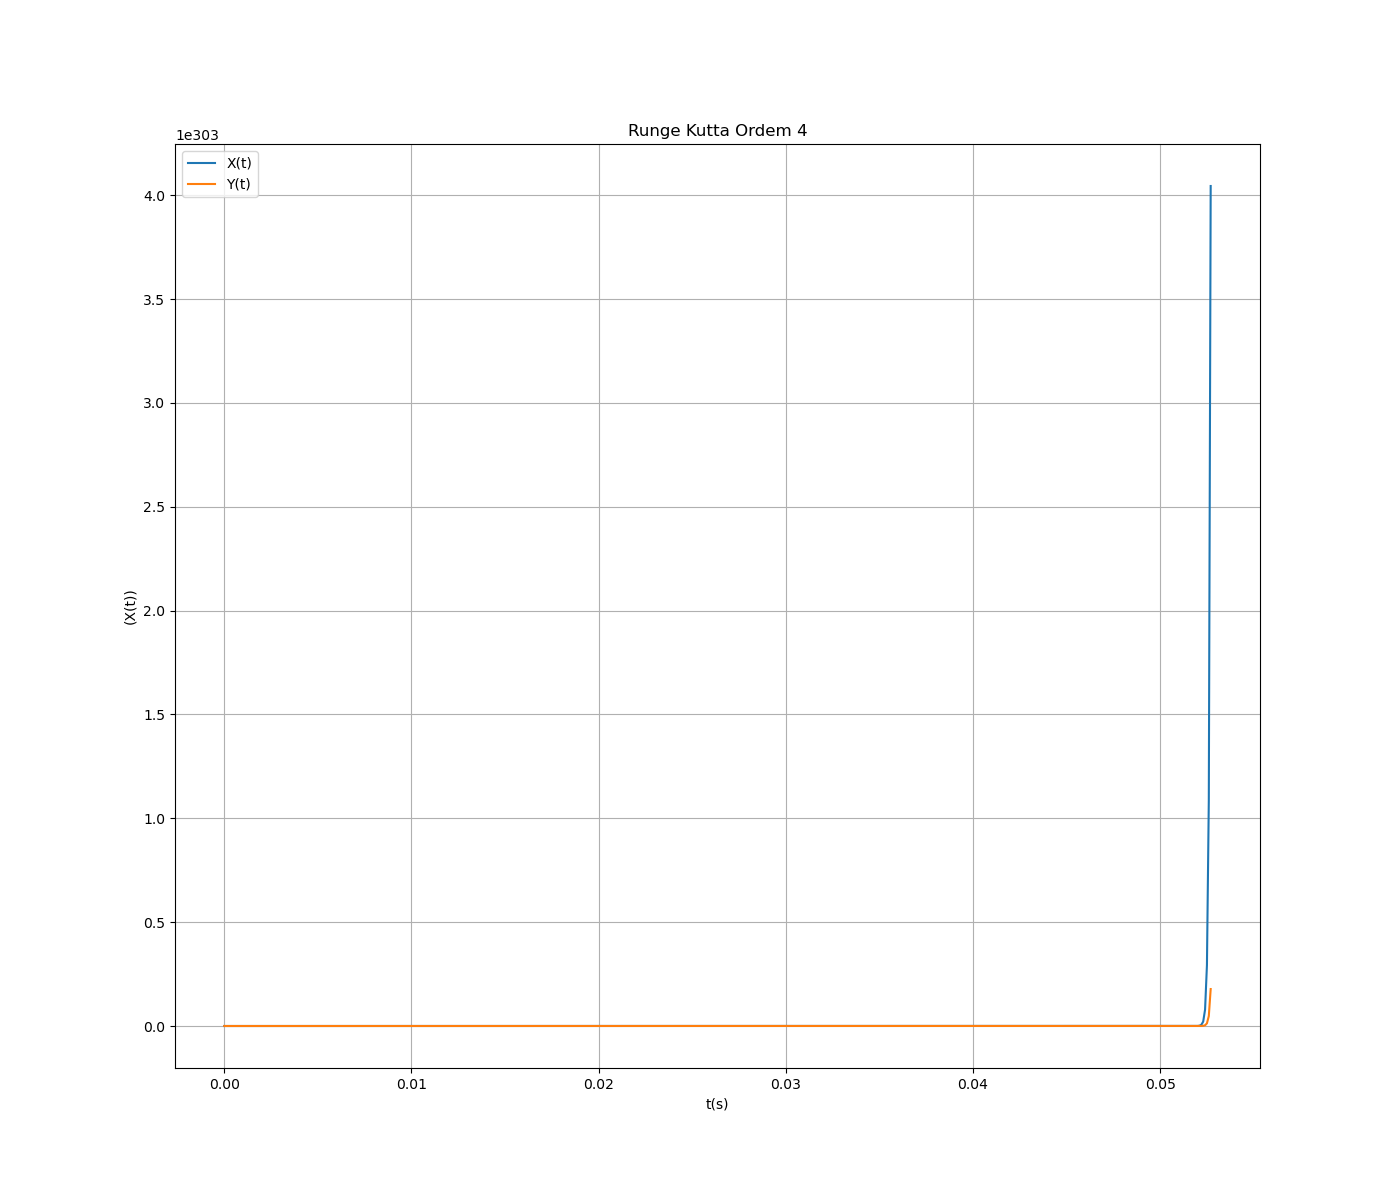
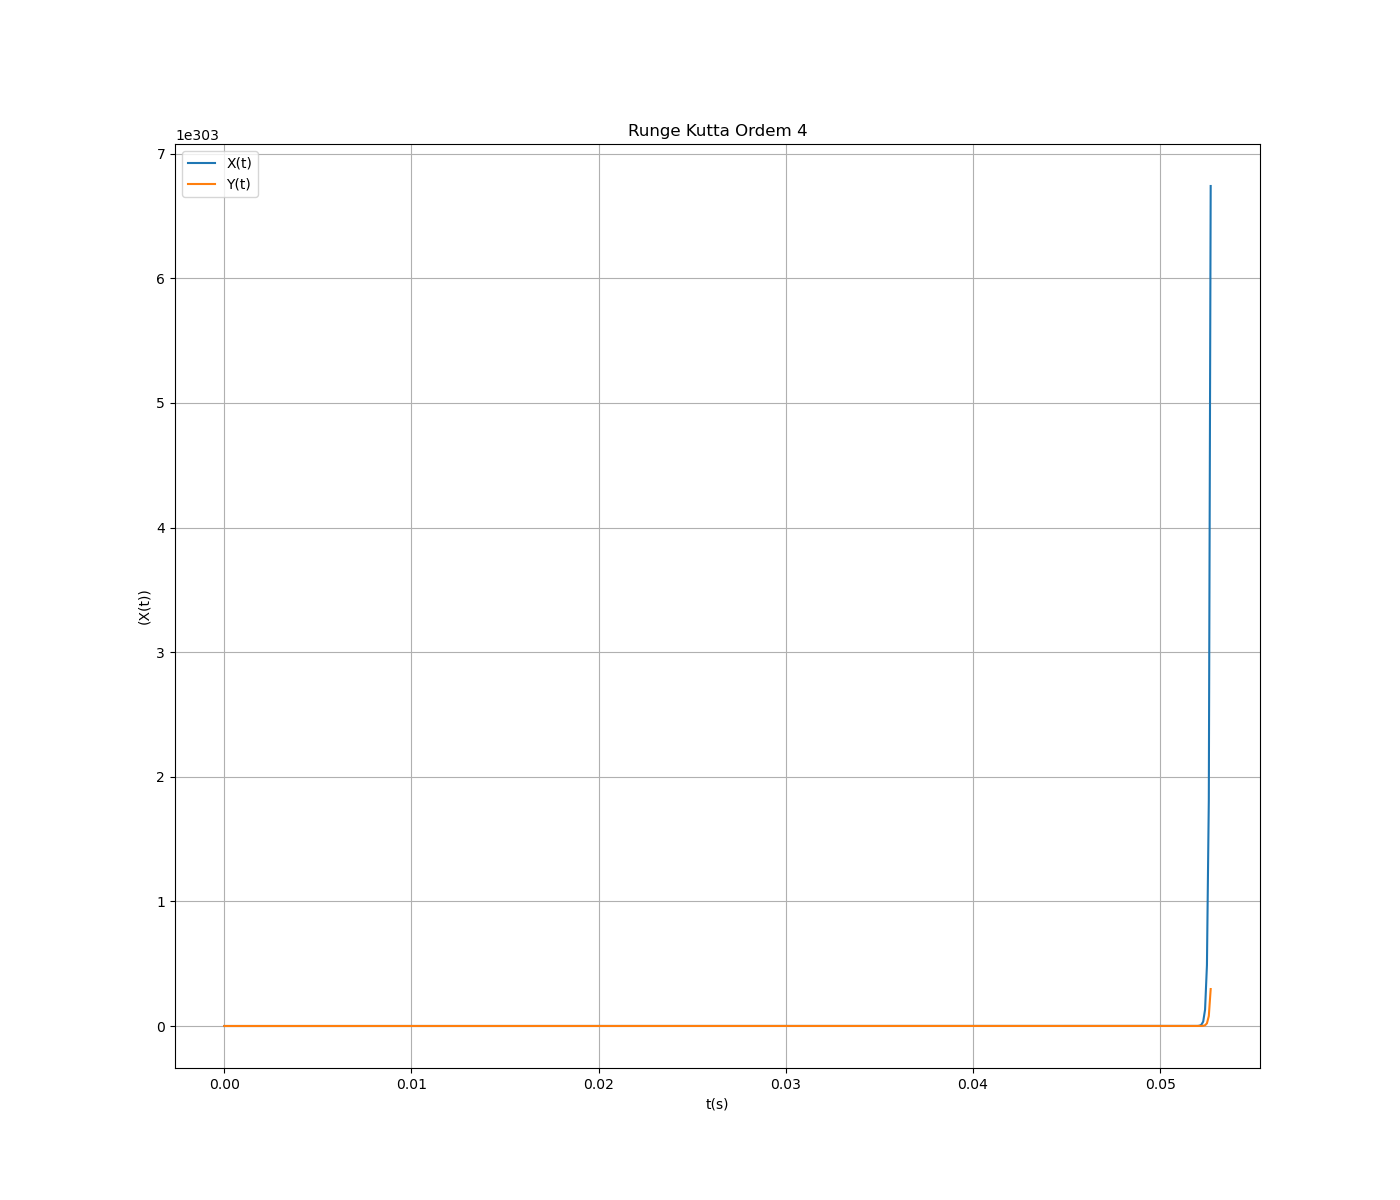
adiciona metodo para gerar gráficos

Changed region(s): [[0.0921, 0.4933, 0.1229, 0.5242]]

diff --git a/aula03/rungeKutta2.py b/aula03/rungeKutta2.py
@@ -30,7 +30,6 @@ def grafico(xt,yt, t, titulo):
     plt.title(titulo)
     plt.grid(True)
     plt.xlabel('t(s)')
-    plt.ylabel('(X(t))')
     plt.plot(t, xt, label = 'X(t)')
     plt.plot(t, yt, label='Y(t)')
 
@@ -76,7 +75,7 @@ y0 = 0
 t0 = 0
 h = 0.0001
 n = 1000
-v_s = 120
+v_s = 200
 
 x,y, t = RK4(dvDt,dvDt2, x0,y0,t0,h,n)
 
